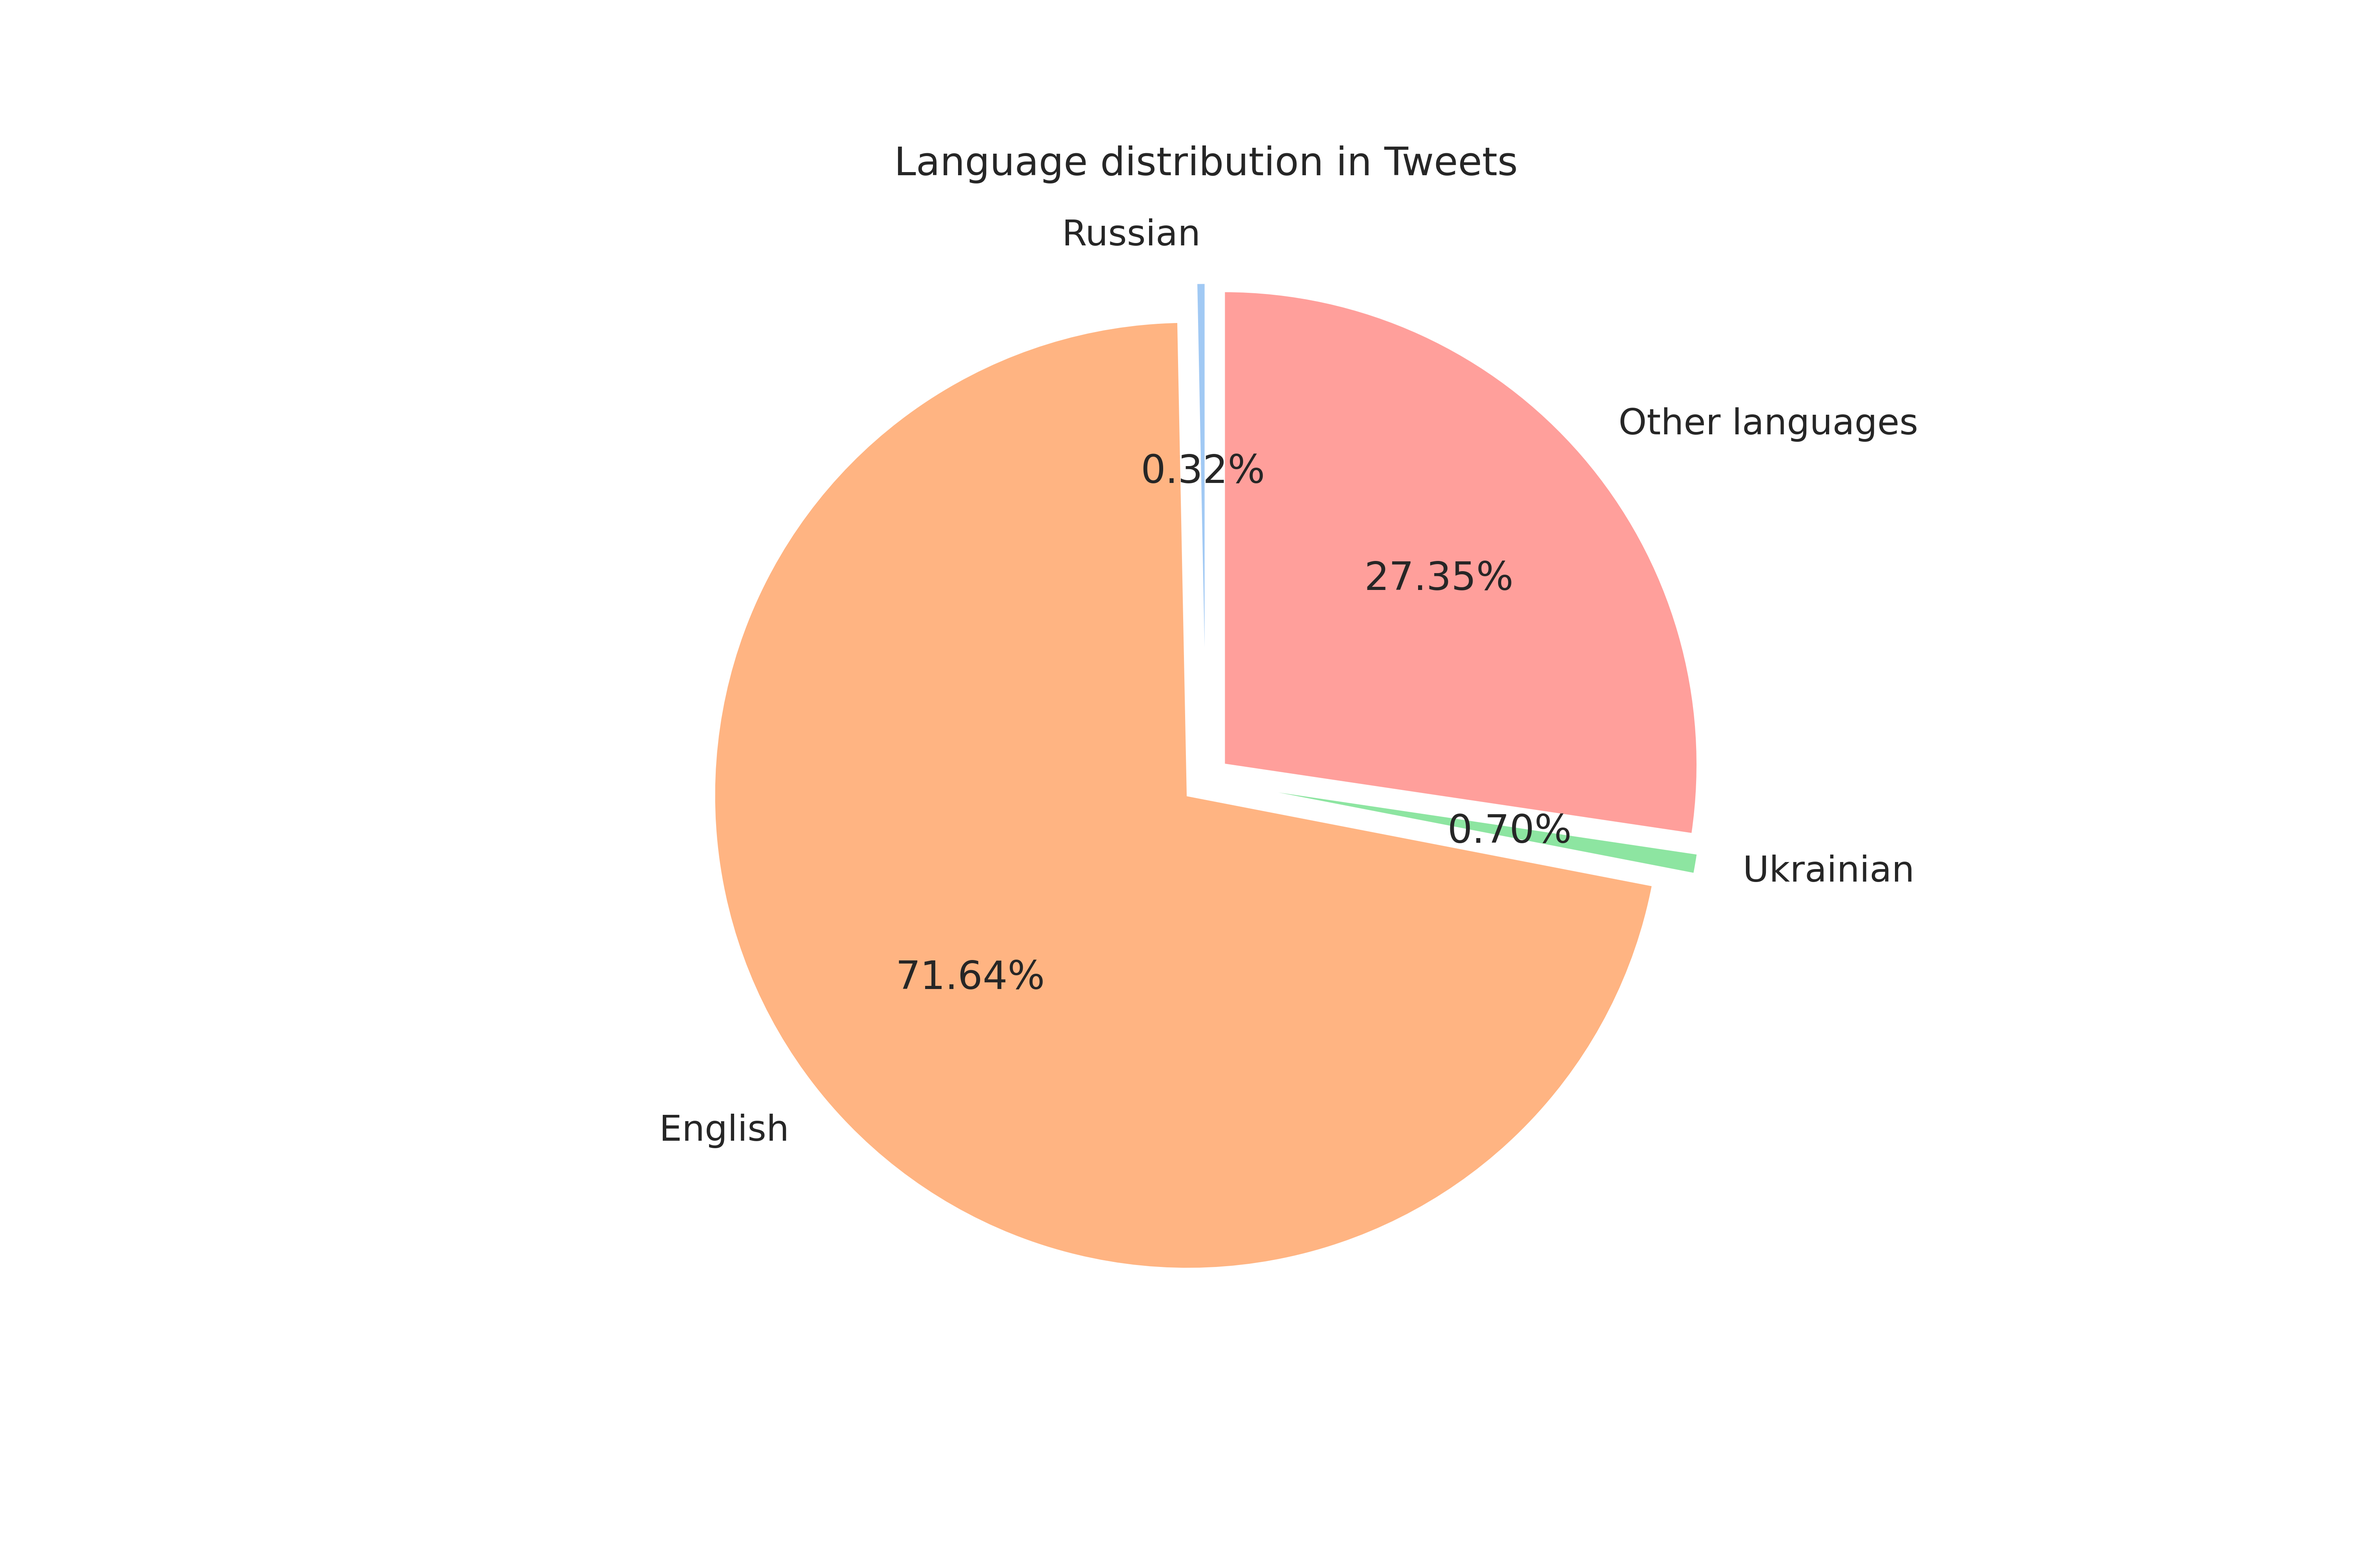
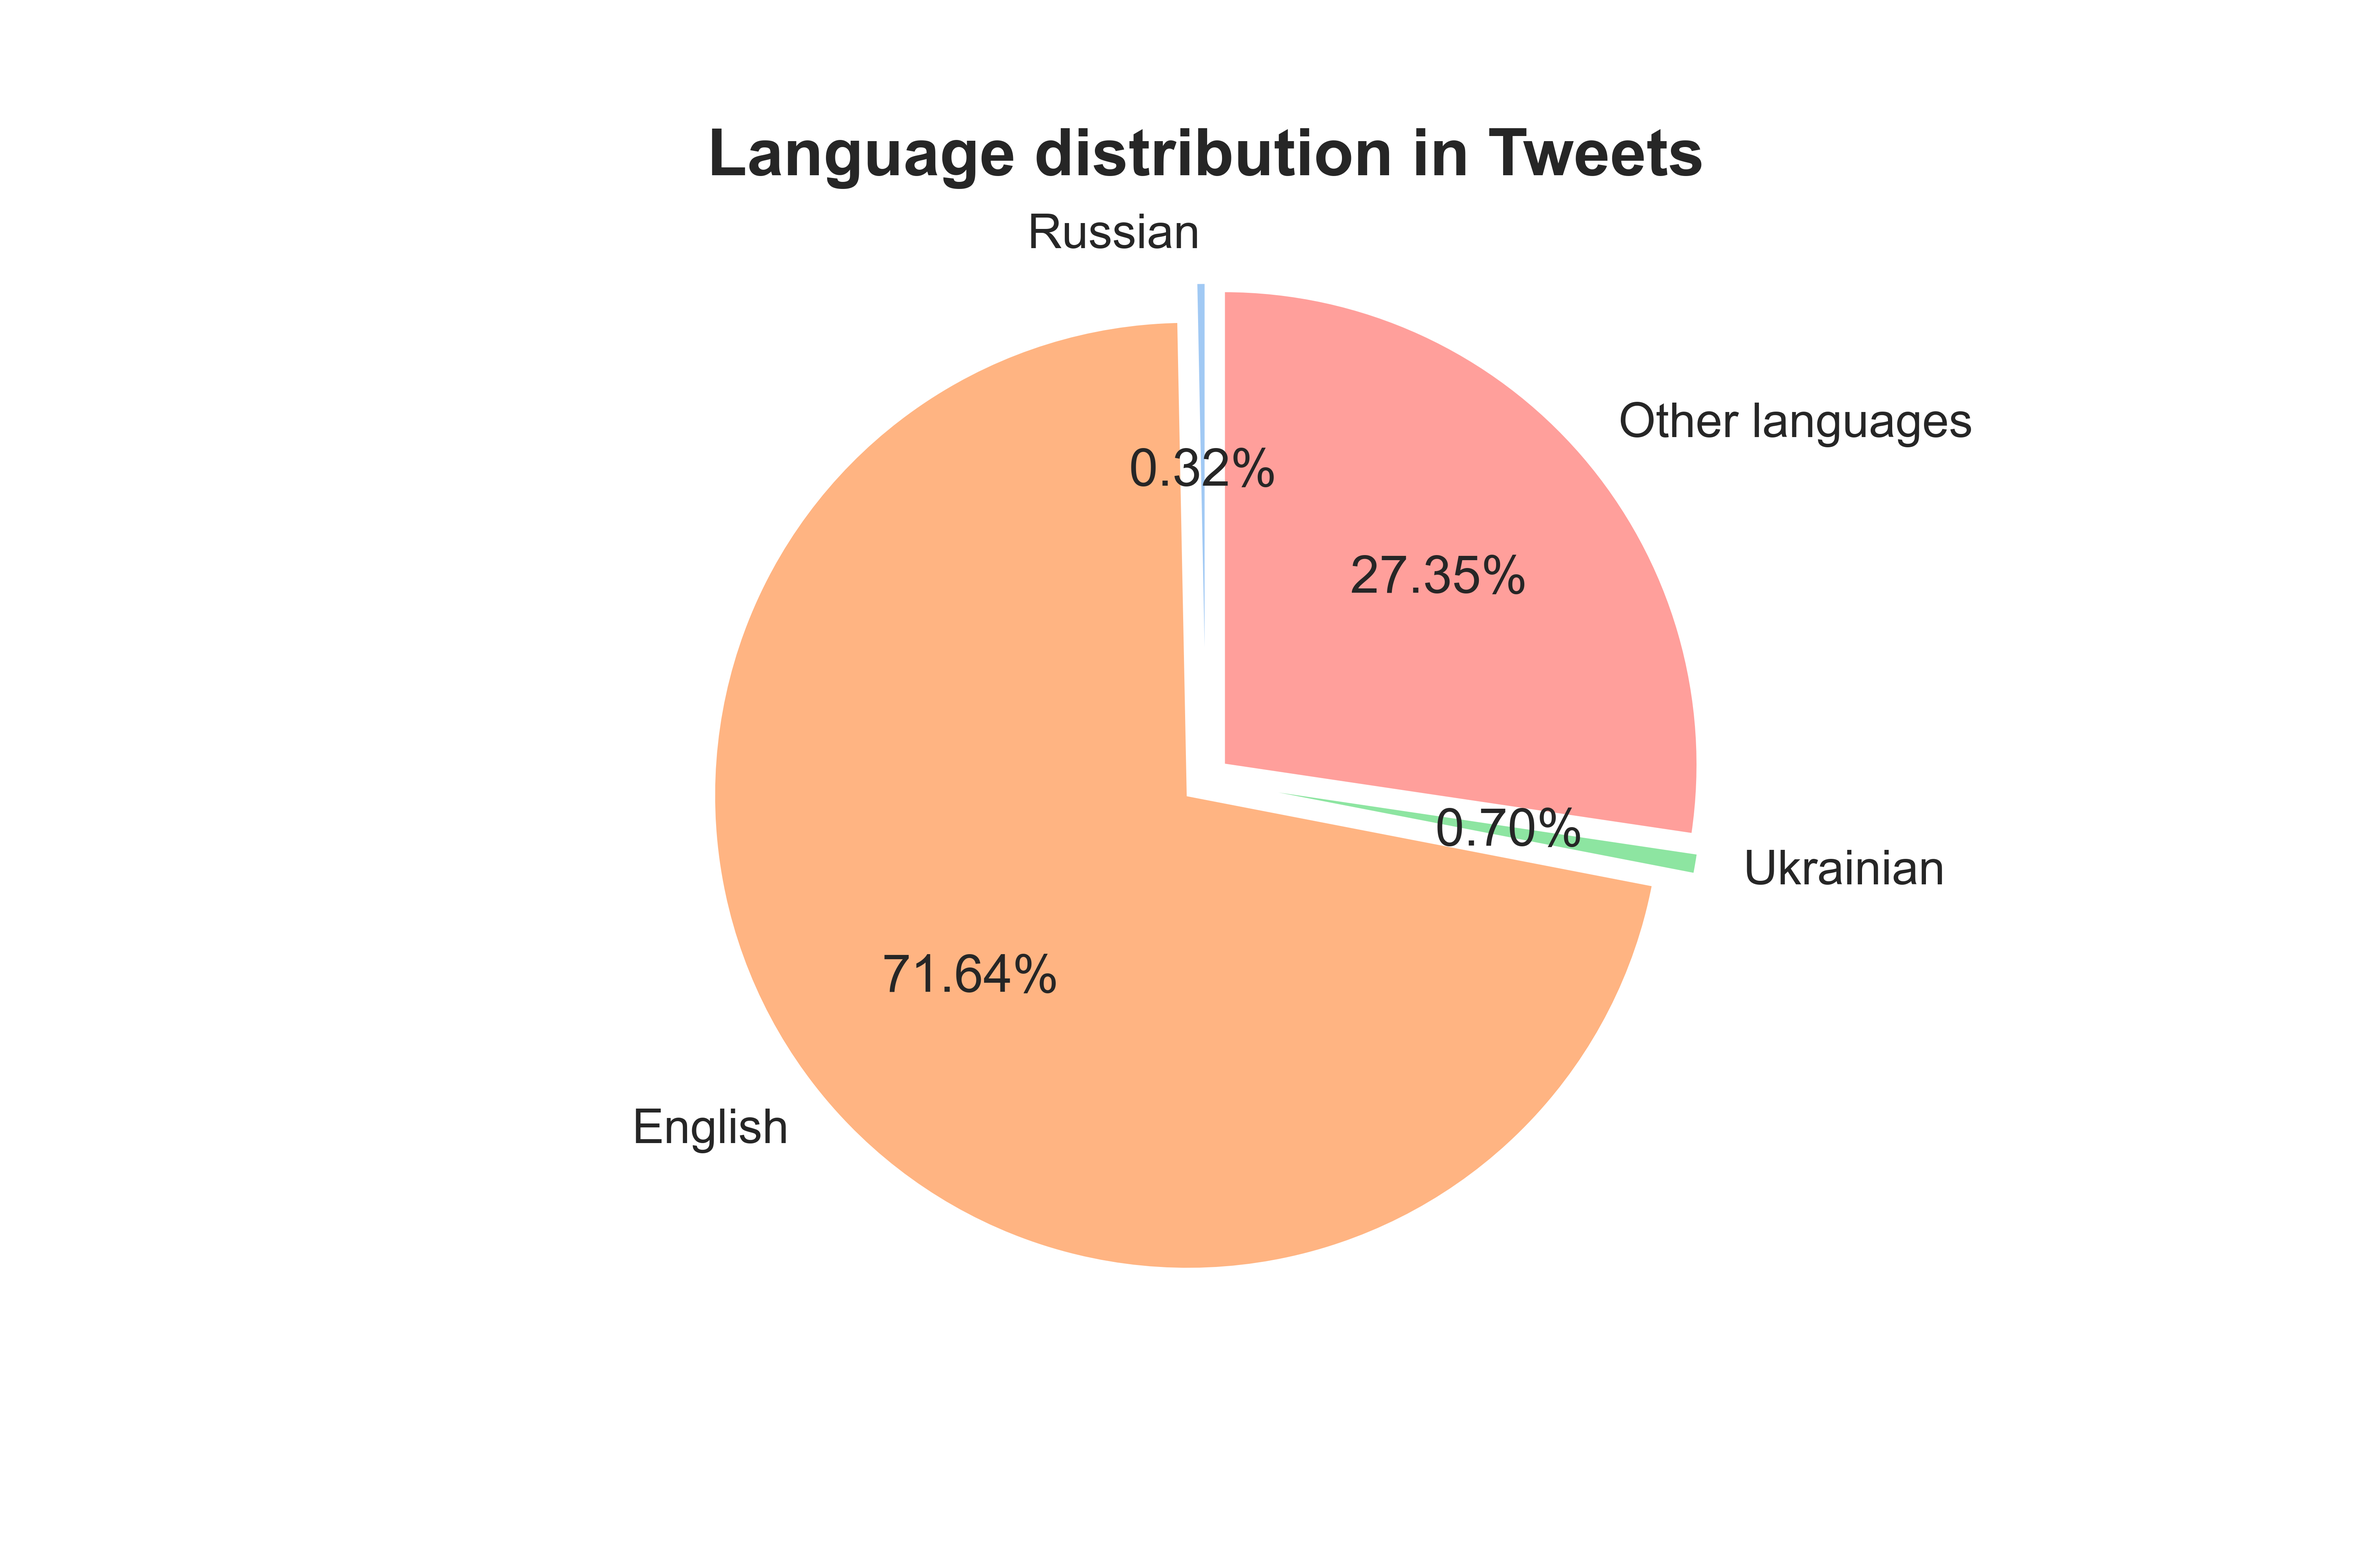
123

diff --git a/plots/barplot.py b/plots/barplot.py
@@ -1,0 +1,75 @@
+#%%
+import pandas as pd
+import os
+import matplotlib as mpl
+import matplotlib.pylab as plt
+from collections import defaultdict
+import seaborn as sns
+
+import dateutil.parser
+import datetime as datetime
+import numpy as np
+import matplotlib.dates as mdates
+import matplotlib.ticker as mtick
+
+
+from setup_plot import setup_plot
+setup_plot()
+
+# %%
+#dict = {"VK": 0.73, "Youtube":0.68,"Instagram":0.59,"Odnoklassniki":0.42,"Facebook":0.37,"TikTok":0.35,"Twitter":0.14,"Moy Mir":0.13}
+#df = pd.DataFrame.from_dict(dict, orient ="index")
+
+d ={'Platforms':["VK","Youtube","Instagram","Odnoklassniki","Facebook","TikTok","Twitter","Moy Mir"],"Userbase":[0.73,0.68,0.59,0.42,0.37,0.35,0.14,0.13]}
+df = pd.DataFrame(data = d)
+#%%
+platforms = df['Platforms']
+userbase = df['Userbase']
+colors = sns.color_palette("pastel")
+
+#%%
+#platforms = list(dict.keys())
+#data = list(dict.values())
+#xaxis = np.arange(len(df.values))
+
+
+#yaxis = np.array([0.73,0.68,0.59,0.42,0.37,0.35,0.14,0.13])
+#xaxis = np.arange(len(df.values))
+
+
+#percent_str = [str(int(p*100))+"%" for p in data]
+# %%
+
+fig, ax = plt.subplots(figsize=(16,9))
+
+ax.barh(platforms,userbase, color = colors)
+ax.invert_yaxis()
+
+for s in ['top', 'bottom', 'left', 'right']:
+    ax.spines[s].set_visible(False)
+
+ax.xaxis.set_ticks_position('none')
+ax.yaxis.set_ticks_position('none')
+
+plt.tick_params(
+    axis='x',          # changes apply to the x-axis
+    which='both',      # both major and minor ticks are affected
+    bottom=False,      # ticks along the bottom edge are off
+    top=False,         # ticks along the top edge are off
+    labelbottom=False) 
+
+
+for i in ax.patches:
+    plt.text(i.get_width()+0.01, i.get_y()+0.5,
+             str(round((i.get_width()), 2)),
+             fontsize = 15, fontweight ='bold',
+             color ='grey')
+
+ax.set_title('Proliferation of Social media platforms in Russia')
+
+ax.text(0.75, 0.15, 'Source: statisa.com',
+        transform = ax.transAxes, fontsize = 15)
+
+plt.savefig("socailmedia.png")
+
+# %%

diff --git a/preprocessing/count_volume.py b/preprocessing/count_volume.py
@@ -46,8 +46,6 @@ total = dehydrated(path)
 import matplotlib.pyplot as plt
 import matplotlib.dates as mdates
 import matplotlib as mpl
-import matplotlib.pylab as plt
-import matplotlib.dates as mdates
 import seaborn as sns
 
 def setup_plot():
@@ -61,16 +59,8 @@ def setup_plot():
     myFmt = mdates.DateFormatter('%b %d')    
     print("Plot settings applied")
 
-
-
 setup_plot()
 
-#fig, ax = plt.subplots(figsize=(20,10),dpi=400)
-#plt.xticks(rotation=90,fontsize=15)
-#plt.yticks(fontsize=15)
-#ax.set_ylim(0*50e3,30e4)
-#ax.plot(*zip(*volume_count.items()), '-o', color='purple')
-#plt.title("Volume of tweets surrounding the Russia-Ukraine War",fontdict={'fontsize': 20})
 # %%
 #Converting to dataframe in order to plot xaxis with dateformatting
 
@@ -78,14 +68,8 @@ df = pd.DataFrame.from_dict(volume_count, orient = 'index')
 df.index = pd.to_datetime(df.index)
 
 #%%
-#%%
 fig, ax = plt.subplots(figsize=(15,3),dpi=400, constrained_layout = False)
-
-#ax.plot(*zip(*volume_count.items()), '-o', label = 'Tweets pr. day', ls = "--", alpha = 0.5)
-
 ax.plot(df.index,df.values, '-o', label = 'Tweets pr. day', ls = "--", alpha = 0.5)
-
-
 
 plt.xticks(fontsize = 15)
 ax.set_ylim(18e4,32e4)

diff --git a/plots/setup_plot.py b/plots/setup_plot.py
@@ -14,7 +14,7 @@ def setup_plot():
     #mpl.rcParams['axes.titleweight'] = 'bold'
     #mpl.rcParams['axes.titlesize'] = '90'
     
-    sns.set_theme(style="white", palette='pastel', font = 'Arial', font_scale=1.5)
+    sns.set_theme(style="white", palette='pastel', font = 'Arial', font_scale=3)
 
     #sns.set_theme(style="white", palette='pastel', font = 'Microsoft Sans Serif', font_scale=1)
     #myFmt = mdates.DateFormatter('%b #Y')
